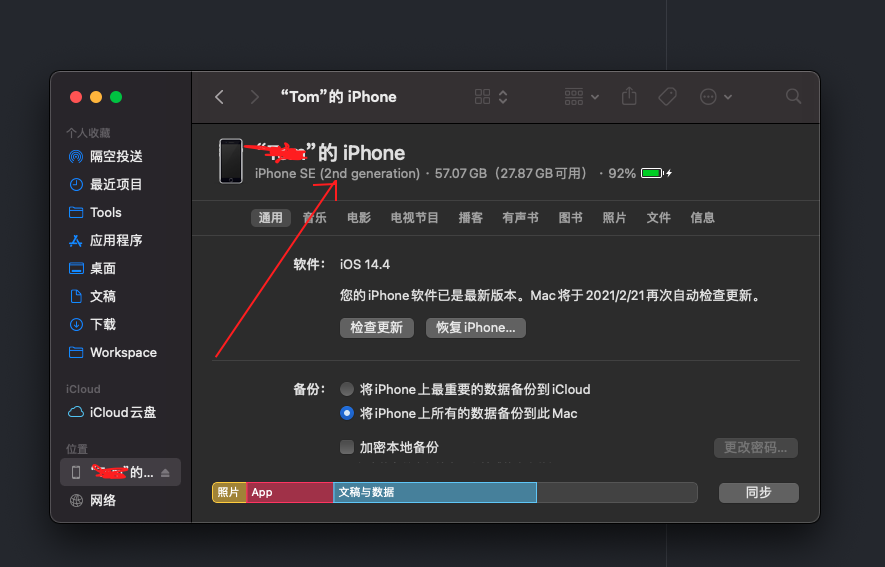
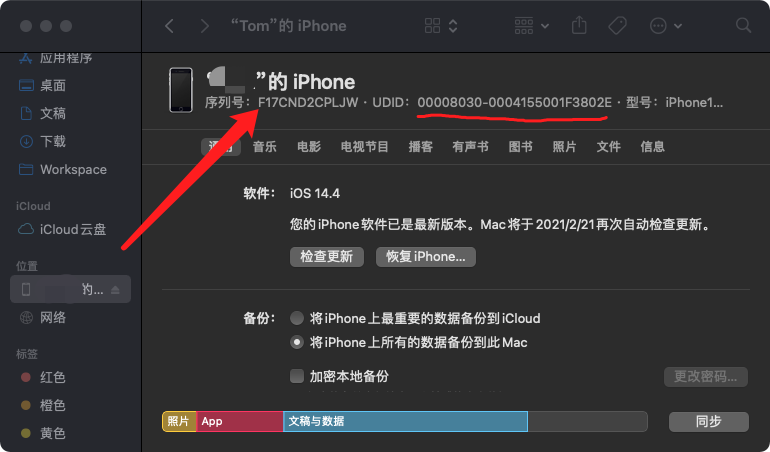
update

diff --git a/md/blogs/iOS如何抓网络包.md b/md/blogs/iOS如何抓网络包.md
@@ -1,8 +1,8 @@
 # iOS下如何抓网络包
 1. 确保在mac上装有tcpdump工具，一般默认都会安装，在命令行下执行命令:```tcpdump -h```，看到帮助信息就说明有这个工具。
-2. 找到手机的UUID，把手机连上电脑，然后打开 “访达（finder）” 找到手机，然后点击手机型号(默认不显示UUID，必须点击一下才显示)，如下图位置，切换到显示UUID的界面，拷贝下UUID备用。
+2. 找到手机的UUID，把手机连上电脑，然后打开 “访达（finder）” 找到手机，然后点击下图箭头位置(默认不显示UUID，必须点击一下才显示)，切换到显示UUID的界面后，拷贝下图中画红线的UUID备用。
 ![图片](./ios_finder_uuid.png)
-3. 在终端窗口输入命令:
+3. 在终端窗口输入如下命令，注意UUID换成步骤2拷贝的内容
 ```
 rvictl -s UUID
 ```
